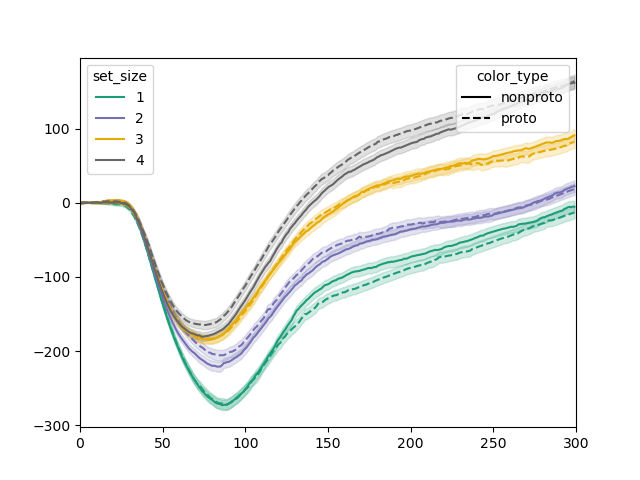
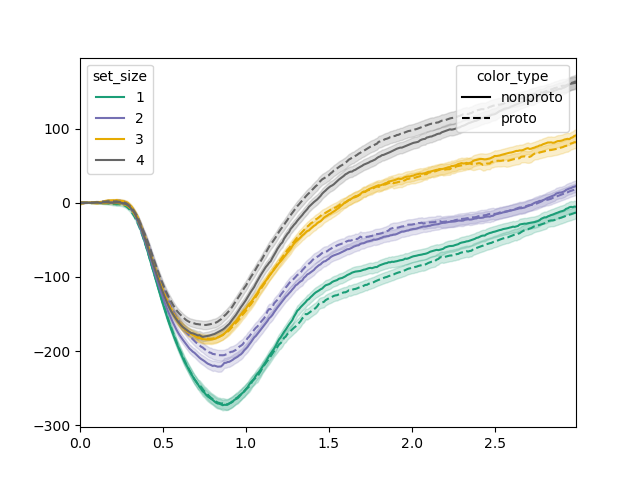
Update docs

diff --git a/readme.md b/readme.md
@@ -104,7 +104,8 @@ The `plot()` function provides a convenient way to plot pupil size over time as 
 import time_series_test as tst
 from matplotlib import pyplot as plt
 
-tst.plot(dm, dv='pupil', hue_factor='set_size', linestyle_factor='color_type')
+tst.plot(dm, dv='pupil', hue_factor='set_size', linestyle_factor='color_type',
+         sampling_freq=100)
 plt.savefig('img/signal-plot-1.png')
 ```
 
@@ -196,7 +197,7 @@ We can pass the `results` to `plot()` to visualize the results:
 ```python
 plt.clf()
 tst.plot(dm, dv='pupil', hue_factor='set_size', linestyle_factor='color_type',
-         results=results)
+         results=results, sampling_freq=100)
 plt.savefig('img/signal-plot-2.png')
 ```
 
@@ -387,7 +388,7 @@ Performs a sample-by-sample linear-mixed-effects analysis. See
   - `z`: the z value
   - `se`: the standard error
 
-## <span style="color:purple">time\_series\_test.plot</span>_(dm, dv, hue\_factor, results=None, linestyle\_factor=None, hues=None, linestyles=None, alpha\_level=0.05, annotate\_intercept=False, annotation\_hues=None, annotation\_linestyle=':', legend\_kwargs=None, annotation\_legend\_kwargs=None)_
+## <span style="color:purple">time\_series\_test.plot</span>_(dm, dv, hue\_factor, results=None, linestyle\_factor=None, hues=None, linestyles=None, alpha\_level=0.05, annotate\_intercept=False, annotation\_hues=None, annotation\_linestyle=':', legend\_kwargs=None, annotation\_legend\_kwargs=None, x0=0, sampling\_freq=1)_
 
 Visualizes a time series, where the signal is plotted as a function of
 sample number on the x-axis. One fixed effect is indicated by the hue
@@ -456,6 +457,14 @@ annotated in the figure.
 
   Optional keywords to be passed to `plt.legend()` for the annotation
   legend.
+
+* **x0: int, float**
+
+  The starting value on the x-axis.
+
+* **sampling\_freq: int, float**
+
+  The sampling frequency.
 
 ## <span style="color:purple">time\_series\_test.summarize</span>_(results, detailed=False)_
 

diff --git a/readme-template.md b/readme-template.md
@@ -98,7 +98,8 @@ The `plot()` function provides a convenient way to plot pupil size over time as 
 import time_series_test as tst
 from matplotlib import pyplot as plt
 
-tst.plot(dm, dv='pupil', hue_factor='set_size', linestyle_factor='color_type')
+tst.plot(dm, dv='pupil', hue_factor='set_size', linestyle_factor='color_type',
+         sampling_freq=100)
 plt.savefig('img/signal-plot-1.png')
 ```
 
@@ -144,7 +145,7 @@ We can pass the `results` to `plot()` to visualize the results:
 ```python
 plt.clf()
 tst.plot(dm, dv='pupil', hue_factor='set_size', linestyle_factor='color_type',
-         results=results)
+         results=results, sampling_freq=100)
 plt.savefig('img/signal-plot-2.png')
 ```
 
